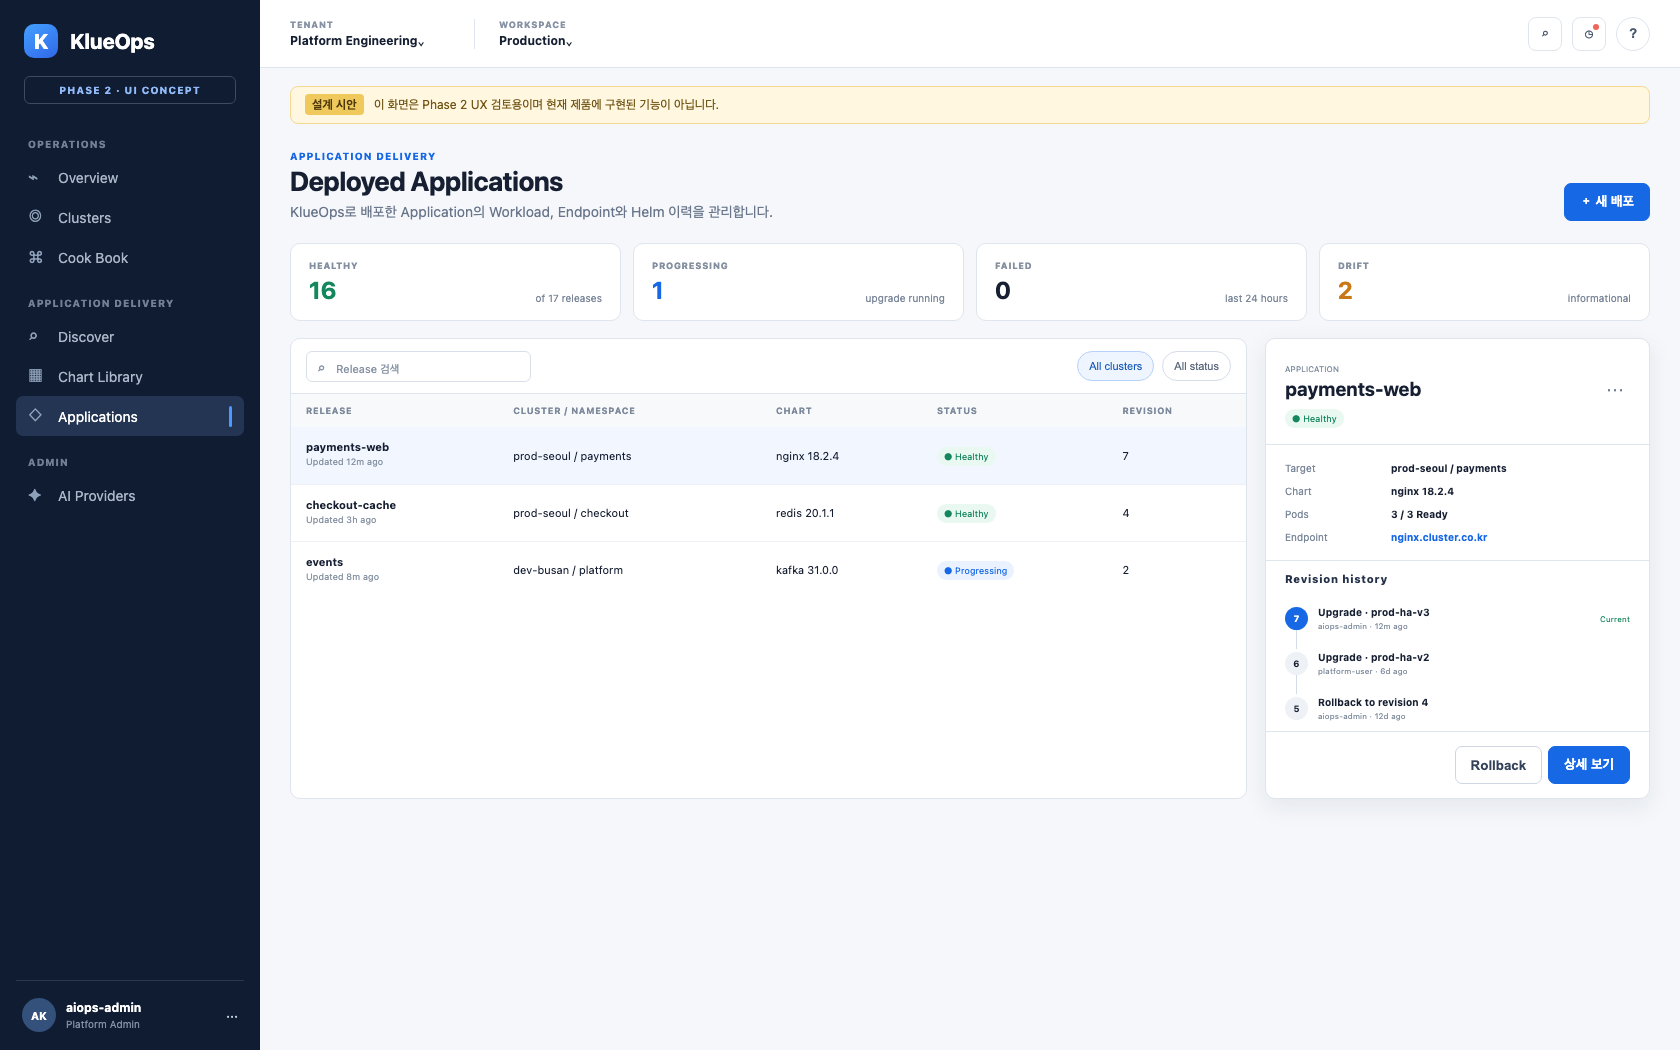
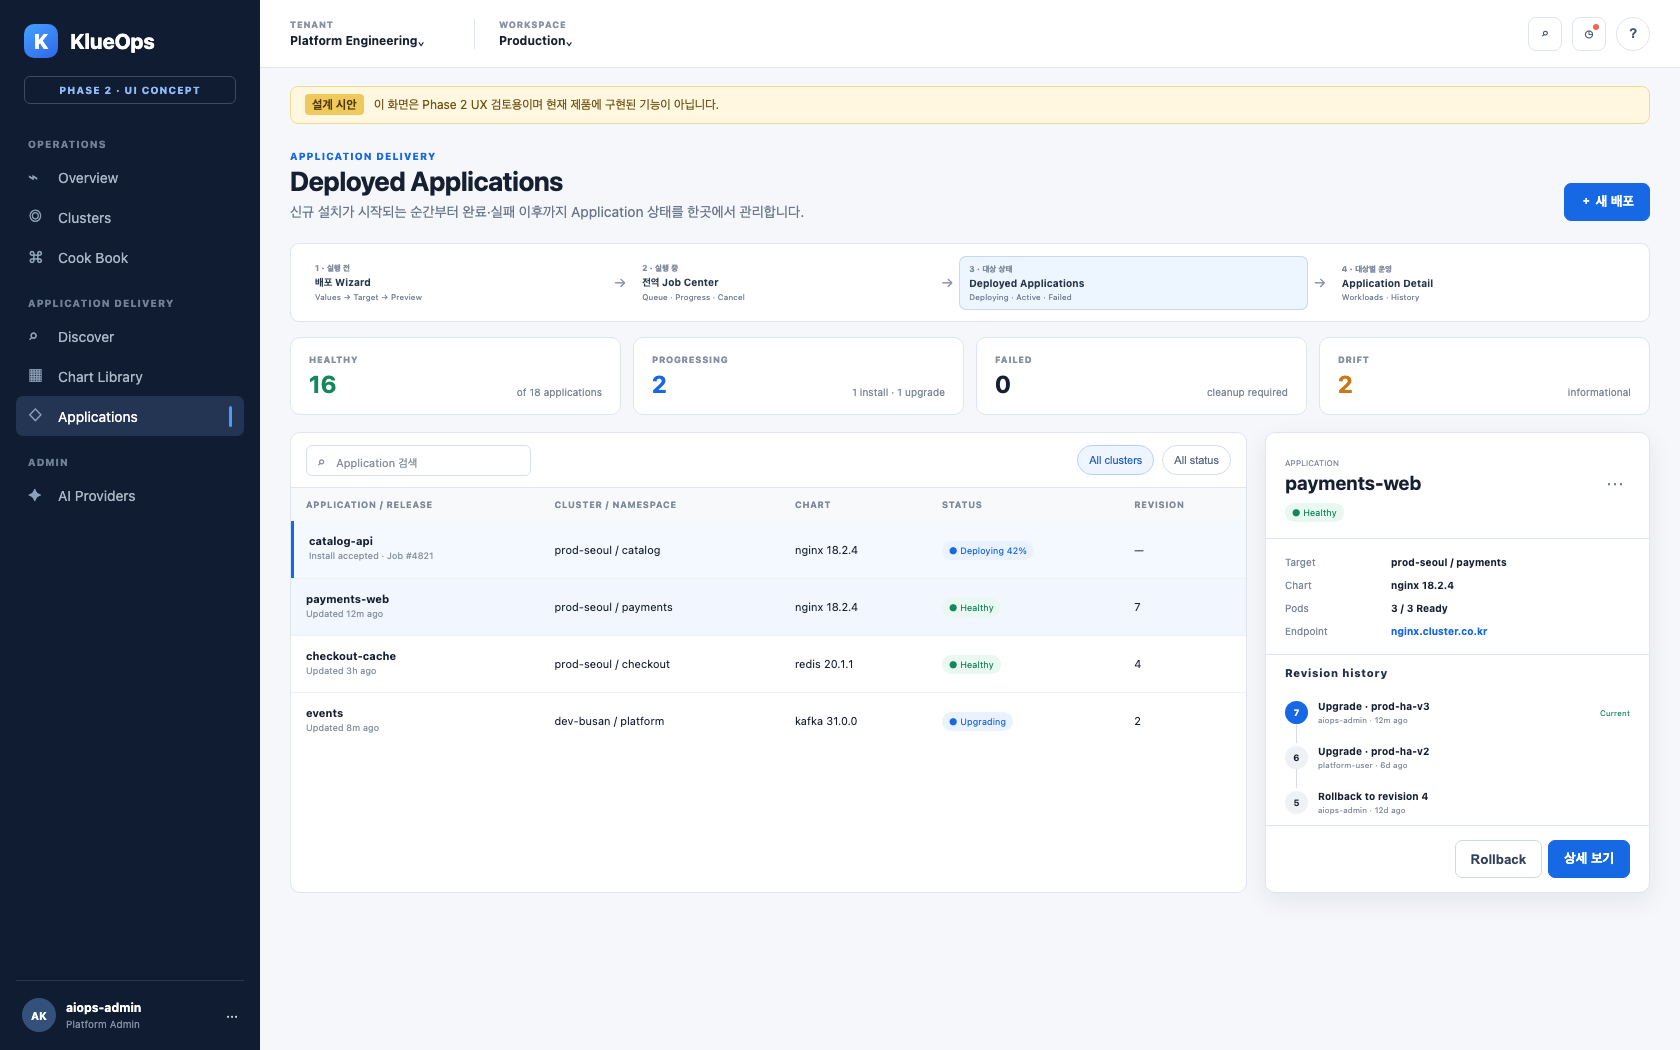
Make deployment lifecycle visible in phase 2 mockup

diff --git a/docs/phase-2/application-delivery/ui-mockups/index.html b/docs/phase-2/application-delivery/ui-mockups/index.html
@@ -4,9 +4,9 @@
     <meta charset="UTF-8" />
     <meta name="viewport" content="width=device-width, initial-scale=1.0" />
     <title>KlueOps Phase 2 · Application Delivery UI Concept</title>
-    <link rel="stylesheet" href="styles.css" />
-    <link rel="stylesheet" href="modals.css" />
-    <link rel="stylesheet" href="phase2-additions.css" />
+    <link rel="stylesheet" href="styles.css?v=20260915" />
+    <link rel="stylesheet" href="modals.css?v=20260915" />
+    <link rel="stylesheet" href="phase2-additions.css?v=20260915" />
   </head>
   <body>
     <aside class="sidebar">
@@ -143,9 +143,10 @@ resources:
       </section>
 
       <section class="screen" data-screen-panel="applications">
-        <div class="page-head"><div><p class="eyebrow">APPLICATION DELIVERY</p><h1>Deployed Applications</h1><p>KlueOps로 배포한 Application의 Workload, Endpoint와 Helm 이력을 관리합니다.</p></div><button class="primary" data-screen="discover">＋ 새 배포</button></div>
-        <div class="stat-row"><div class="stat"><small>HEALTHY</small><b class="green">16</b><span>of 17 releases</span></div><div class="stat"><small>PROGRESSING</small><b class="blue-text">1</b><span>upgrade running</span></div><div class="stat"><small>FAILED</small><b>0</b><span>last 24 hours</span></div><div class="stat"><small>DRIFT</small><b class="orange-text">2</b><span>informational</span></div></div>
-        <div class="split-layout release-layout"><div class="table-card release-table"><div class="table-tools"><div class="small-search">⌕ <span>Release 검색</span></div><button class="chip active">All clusters</button><button class="chip">All status</button></div><table><thead><tr><th>RELEASE</th><th>CLUSTER / NAMESPACE</th><th>CHART</th><th>STATUS</th><th>REVISION</th></tr></thead><tbody><tr class="row-selected"><td><strong>payments-web</strong><small>Updated 12m ago</small></td><td>prod-seoul / payments</td><td>nginx 18.2.4</td><td><span class="status healthy">● Healthy</span></td><td>7</td></tr><tr><td><strong>checkout-cache</strong><small>Updated 3h ago</small></td><td>prod-seoul / checkout</td><td>redis 20.1.1</td><td><span class="status healthy">● Healthy</span></td><td>4</td></tr><tr><td><strong>events</strong><small>Updated 8m ago</small></td><td>dev-busan / platform</td><td>kafka 31.0.0</td><td><span class="status progressing">● Progressing</span></td><td>2</td></tr></tbody></table></div>
+        <div class="page-head"><div><p class="eyebrow">APPLICATION DELIVERY</p><h1>Deployed Applications</h1><p>신규 설치가 시작되는 순간부터 완료·실패 이후까지 Application 상태를 한곳에서 관리합니다.</p></div><button class="primary" data-screen="discover">＋ 새 배포</button></div>
+        <div class="deployment-map"><div><small>1 · 실행 전</small><b>배포 Wizard</b><span>Values → Target → Preview</span></div><i>→</i><div><small>2 · 실행 중</small><b>전역 Job Center</b><span>Queue · Progress · Cancel</span></div><i>→</i><div class="active"><small>3 · 대상 상태</small><b>Deployed Applications</b><span>Deploying · Active · Failed</span></div><i>→</i><div><small>4 · 대상별 운영</small><b>Application Detail</b><span>Workloads · History</span></div></div>
+        <div class="stat-row"><div class="stat"><small>HEALTHY</small><b class="green">16</b><span>of 18 applications</span></div><div class="stat"><small>PROGRESSING</small><b class="blue-text">2</b><span>1 install · 1 upgrade</span></div><div class="stat"><small>FAILED</small><b>0</b><span>cleanup required</span></div><div class="stat"><small>DRIFT</small><b class="orange-text">2</b><span>informational</span></div></div>
+        <div class="split-layout release-layout"><div class="table-card release-table"><div class="table-tools"><div class="small-search">⌕ <span>Application 검색</span></div><button class="chip active">All clusters</button><button class="chip">All status</button></div><table><thead><tr><th>APPLICATION / RELEASE</th><th>CLUSTER / NAMESPACE</th><th>CHART</th><th>STATUS</th><th>REVISION</th></tr></thead><tbody><tr class="deployment-row"><td><strong>catalog-api</strong><small>Install accepted · Job #4821</small></td><td>prod-seoul / catalog</td><td>nginx 18.2.4</td><td><span class="status progressing">● Deploying 42%</span></td><td>—</td></tr><tr class="row-selected"><td><strong>payments-web</strong><small>Updated 12m ago</small></td><td>prod-seoul / payments</td><td>nginx 18.2.4</td><td><span class="status healthy">● Healthy</span></td><td>7</td></tr><tr><td><strong>checkout-cache</strong><small>Updated 3h ago</small></td><td>prod-seoul / checkout</td><td>redis 20.1.1</td><td><span class="status healthy">● Healthy</span></td><td>4</td></tr><tr><td><strong>events</strong><small>Updated 8m ago</small></td><td>dev-busan / platform</td><td>kafka 31.0.0</td><td><span class="status progressing">● Upgrading</span></td><td>2</td></tr></tbody></table></div>
           <aside class="detail-panel release-detail"><div class="release-head"><div><small>APPLICATION</small><h2>payments-web</h2><span class="status healthy">● Healthy</span></div><button class="more">···</button></div><div class="kv"><span>Target</span><strong>prod-seoul / payments</strong><span>Chart</span><strong>nginx 18.2.4</strong><span>Pods</span><strong>3 / 3 Ready</strong><span>Endpoint</span><strong class="blue-text">nginx.cluster.co.kr</strong></div><h3>Revision history</h3><div class="timeline"><div class="current"><b>7</b><p><strong>Upgrade · prod-ha-v3</strong><small>aiops-admin · 12m ago</small></p><span>Current</span></div><div><b>6</b><p><strong>Upgrade · prod-ha-v2</strong><small>platform-user · 6d ago</small></p></div><div><b>5</b><p><strong>Rollback to revision 4</strong><small>aiops-admin · 12d ago</small></p></div></div><div class="release-actions"><button class="secondary">Rollback</button><button class="primary" data-screen="application-detail">상세 보기</button></div></aside></div>
       </section>
 
@@ -181,6 +182,6 @@ resources:
       </div>
       <div class="toast" role="status" aria-live="polite"></div>
     </main>
-    <script src="app.js"></script>
+    <script src="app.js?v=20260915"></script>
   </body>
 </html>

diff --git a/docs/phase-2/application-delivery/ui-mockups/phase2-additions.css b/docs/phase-2/application-delivery/ui-mockups/phase2-additions.css
@@ -6,6 +6,15 @@
 .source-policy { display: flex; align-items: center; justify-content: space-between; background: #fff; border: 1px solid var(--line); border-radius: 9px; margin-top: 16px; padding: 14px 17px; }
 .source-policy strong { font-size: 11px; }
 .source-policy p { margin: 4px 0 0; color: #6f7d91; font-size: 10px; }
+.deployment-map { display: grid; grid-template-columns: 1fr 24px 1fr 24px 1.15fr 24px 1fr; align-items: center; background: #fff; border: 1px solid var(--line); border-radius: 9px; margin-bottom: 15px; padding: 11px 14px; }
+.deployment-map div { display: flex; flex-direction: column; gap: 3px; border-radius: 7px; padding: 8px 10px; }
+.deployment-map div.active { background: #edf5ff; box-shadow: inset 0 0 0 1px #c4daf8; }
+.deployment-map small { color: #7f8b9d; font-size: 8px; font-weight: 750; }
+.deployment-map b { color: #26364c; font-size: 10px; }
+.deployment-map span { color: #738196; font-size: 8px; }
+.deployment-map i { color: #8a98aa; text-align: center; font-style: normal; }
+.deployment-row { background: #f4f8ff; }
+.deployment-row td:first-child { border-left: 3px solid var(--blue); }
 .wide-stepper { max-width: 870px; }
 .wide-stepper i { width: 65px; }
 .exposure-grid { display: grid; grid-template-columns: minmax(680px, 1fr) 350px; gap: 17px; }
@@ -67,4 +76,4 @@
 .model-flow span { color: #3f4e65; font-size: 10px; line-height: 1.4; }
 .model-flow small { color: #8793a4; font-size: 8px; }
 .model-flow i { width: 55px; height: 1px; background: #d7dee7; margin: 0 12px; }
-@media (max-width: 1250px) { .exposure-grid, .app-detail-grid { grid-template-columns: 1fr; } .resource-banner { grid-template-columns: 1fr 1fr; gap: 14px; } }
+@media (max-width: 1250px) { .exposure-grid, .app-detail-grid { grid-template-columns: 1fr; } .resource-banner { grid-template-columns: 1fr 1fr; gap: 14px; } .deployment-map { grid-template-columns: 1fr 1fr; gap: 8px; } .deployment-map i { display: none; } }

diff --git a/docs/phase-2/application-delivery/ui-ux-screen-design.md b/docs/phase-2/application-delivery/ui-ux-screen-design.md
@@ -207,6 +207,7 @@ Job Center는 Applications 하위 route가 아니라 기존 전역 header에서 
 
 ### 구성
 
+- 상단 lifecycle map으로 `배포 Wizard → Job Center → Deployed Applications → Application Detail`의 책임을 항상 표시
 - Tenant/Workspace/Cluster/Namespace filter
 - Application status, Pod/Endpoint health, Chart/Values revision, 마지막 작업과 운영자
 - install 요청이 수락된 즉시 `DEPLOYING` row를 만들고 진행률/Job Center link를 표시
